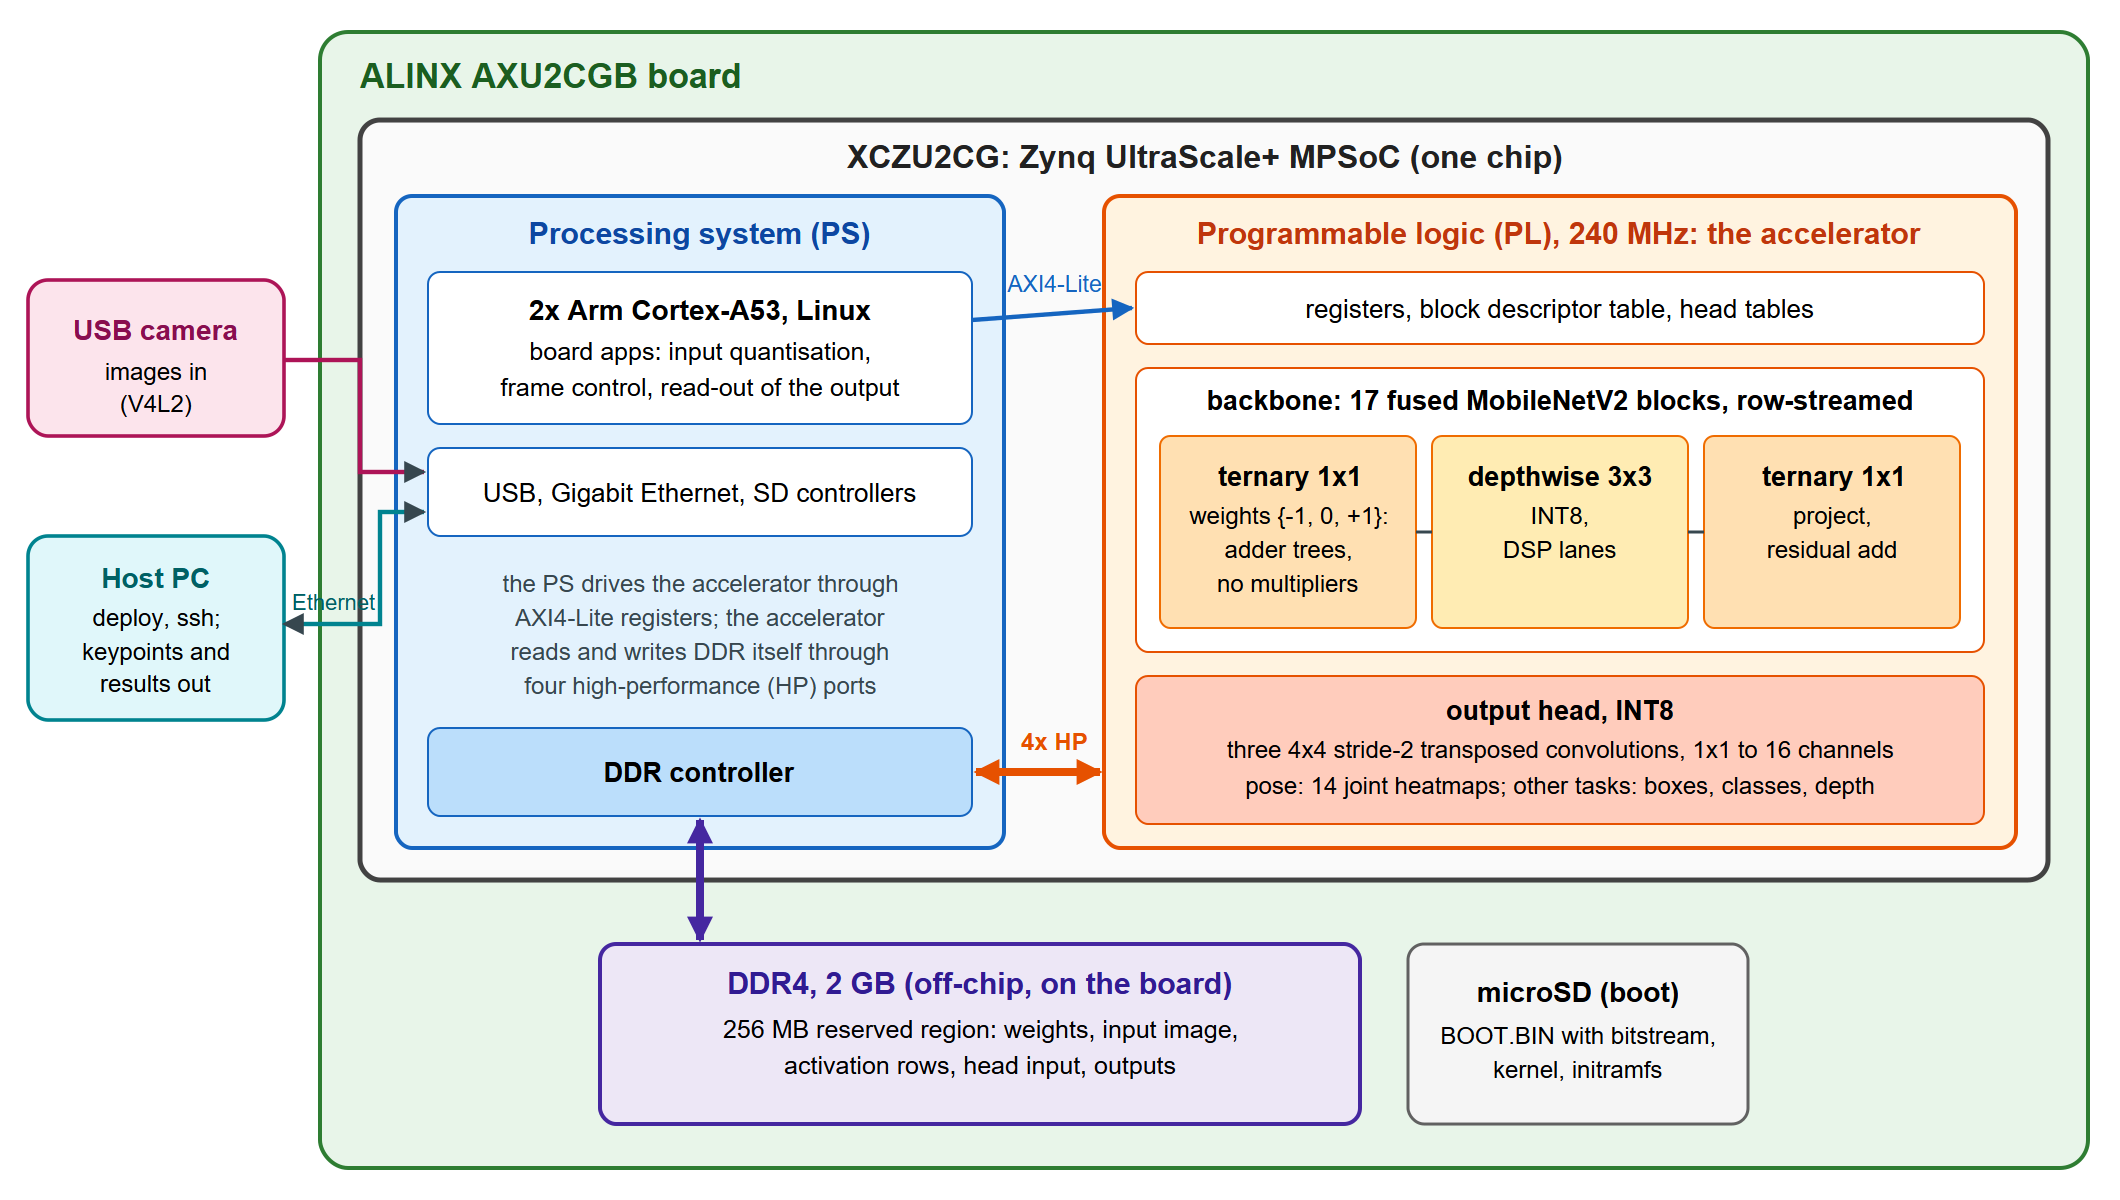
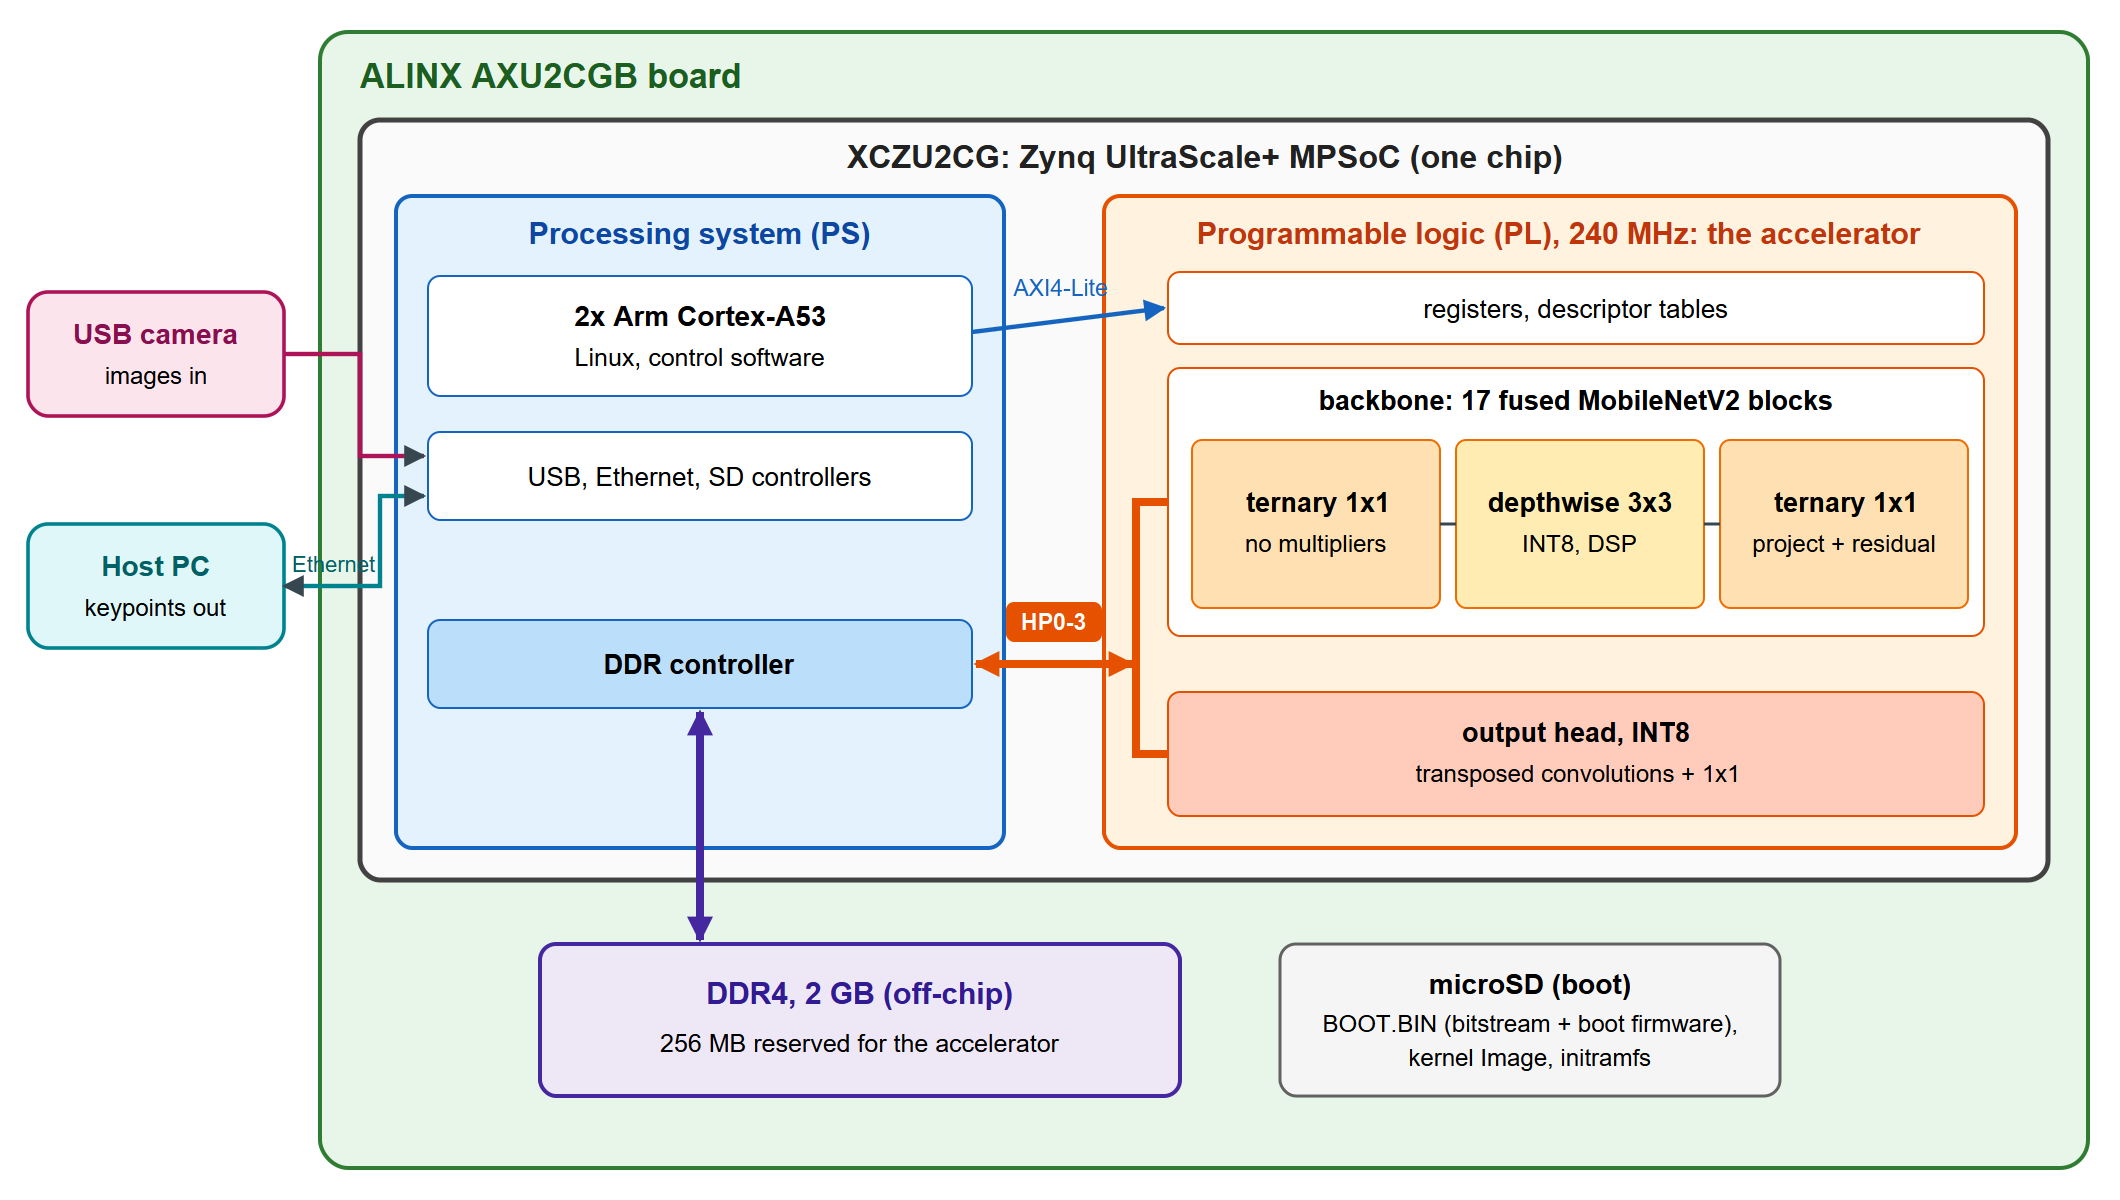
Figures: simpler hardware diagram; indoor photo for the task panels
hardware.svg/.png: short labels only, the HP0-3 ports reach a bus shared
by the backbone and the head, and the microSD holds BOOT.BIN (bitstream +
boot firmware), the kernel Image and the initramfs as separate files.
tasks.jpg: detection, segmentation and depth now run on a CC0 indoor
photo (the scene type these models were trained on); CREDITS.md and the
README caption updated.

diff --git a/docs/figures/CREDITS.md b/docs/figures/CREDITS.md
@@ -2,16 +2,18 @@
 
 ## Photos in `tasks.jpg`
 
-All four photos come from Wikimedia Commons and are released under the Creative Commons CC0 1.0
-Universal Public Domain Dedication (licence checked on each file page on 2026-10-26). They were
+All five photos come from Wikimedia Commons and are released under the Creative Commons CC0 1.0
+Universal Public Domain Dedication (licence checked on each file page on 2026-10-26; none carries a
+personality-rights restriction). They were
 downloaded at most 1,920 px wide and shown cropped and scaled; the drawings on them are ours.
 
 | panel | file page | author | licence |
 |---|---|---|---|
 | yoga | [File:Woman yoga pose.jpg](https://commons.wikimedia.org/wiki/File:Woman_yoga_pose.jpg) | BodyBendYoga / Nappy.co | CC0 1.0 |
-| running (pose, detection, segmentation, depth) | [File:Lady in local costume running in Mumbai Marathon 2024.jpg](https://commons.wikimedia.org/wiki/File:Lady_in_local_costume_running_in_Mumbai_Marathon_2024.jpg) | Rudolph.A.furtado | CC0 1.0 |
+| running | [File:Lady in local costume running in Mumbai Marathon 2024.jpg](https://commons.wikimedia.org/wiki/File:Lady_in_local_costume_running_in_Mumbai_Marathon_2024.jpg) | Rudolph.A.furtado | CC0 1.0 |
 | tennis | [File:Tennis Melkhuisje, halve finales Carter in actie tegen Bazazzutti, Bestanddeelnr 929-8373.jpg](https://commons.wikimedia.org/wiki/File:Tennis_Melkhuisje,_halve_finales_Carter_in_actie_tegen_Bazazzutti,_Bestanddeelnr_929-8373.jpg) | Bert Verhoeff / Anefo (Nationaal Archief) | CC0 1.0 |
 | walking | [File:Woman walking down path (Unsplash).jpg](https://commons.wikimedia.org/wiki/File:Woman_walking_down_path_(Unsplash).jpg) | Biel Morro | CC0 1.0 |
+| indoor (detection, segmentation, depth) | [File:Business Woman is reading Newspaper - 35870943420.jpg](https://commons.wikimedia.org/wiki/File:Business_Woman_is_reading_Newspaper_-_35870943420.jpg) | tranmautritam | CC0 1.0 |
 
 ## How `tasks.jpg` was made
 
@@ -26,8 +28,9 @@ downloaded at most 1,920 px wide and shown cropped and scaled; the drawings on t
 - **Detection, segmentation, depth (bottom row).** The released host checkpoints
   `det12v2_tern_probe_cont_best_bn.pth`, `seg16_tern_probe_cont_last_bn.pth` and
   `depth_tern_probe_cont_last_bn.pth` (simulated quantisation, not the board) through the `demo`
-  modules of `train/coco_det`, `train/coco_seg` and `train/nyu_depth`. These models were trained on
-  indoor scenes; an outdoor street is outside their training data, which shows in the depth map.
+  modules of `train/coco_det`, `train/coco_seg` and `train/nyu_depth`, on the indoor photo, because
+  these models were trained on indoor scenes. Detection shows the best box per class with a score of
+  at least 0.2; segmentation colours the classes listed in the panel; depth uses a fixed 0-6 m scale.
 
 ## Diagrams
 

diff --git a/README.md b/README.md
@@ -20,11 +20,11 @@ different weights for it.
 
 ## What it runs
 
-![Pose on four CC0 photos (C reference, same output as the board); detection, segmentation and depth on one of them (host models)](docs/figures/tasks.jpg)
+![Pose on four CC0 photos (C reference, same output as the board); detection, segmentation and depth on an indoor CC0 photo (host models)](docs/figures/tasks.jpg)
 
 Top: single-person pose, the reference task, computed by the integer C reference that the board
 matches bit for bit. Bottom: detection, indoor segmentation and depth models trained for the same
-fixed network, shown as host results (simulated quantisation; not yet run on the board). Photos are
+fixed network, on an indoor photo, shown as host results (simulated quantisation; not yet run on the board). Photos are
 CC0 from Wikimedia Commons ([credits](docs/figures/CREDITS.md)).
 
 ## Key numbers
